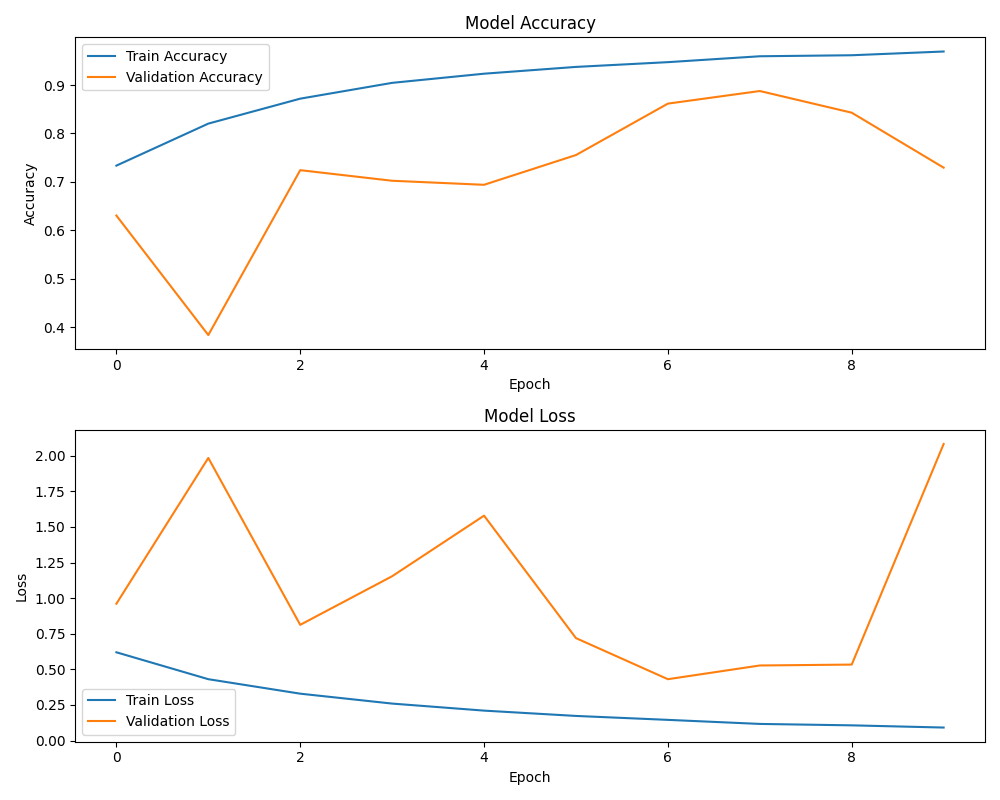
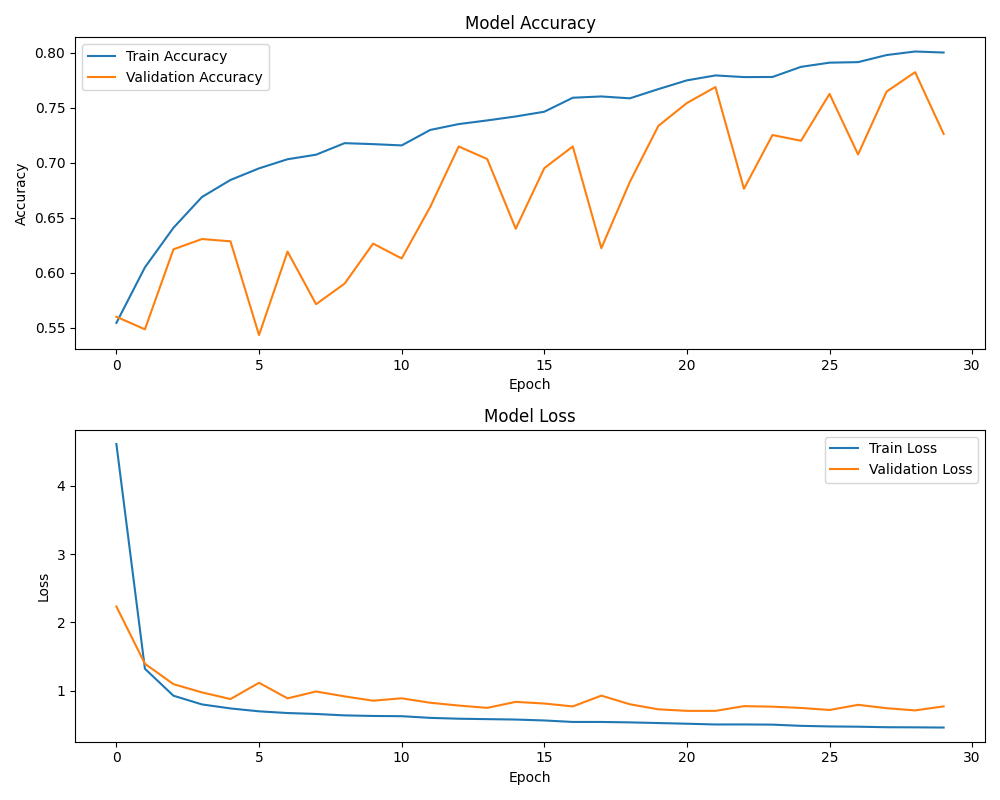
found better initial arch

diff --git a/hw5/train_model.py b/hw5/train_model.py
@@ -51,15 +51,17 @@ print(f"Input shape determined from dataset spec: {input_shape}")
 # Define the model
 _model = models.Sequential([
     layers.Input(shape=input_shape),
-    layers.Conv2D(32, 3, activation='relu'),
-    layers.MaxPooling2D(pool_size=(1,2)),
-    layers.BatchNormalization(),
+    layers.Conv2D(32, 5, activation='relu'),
+    layers.Conv2D(16, 3, activation='relu'),
+    #layers.Conv2D(64, 3, activation='relu'),
+    # layers.MaxPooling2D(pool_size=(1,2)),
+    # layers.BatchNormalization(),
     
-    layers.Conv2D(64, 3, activation='relu'),
-    layers.BatchNormalization(),
+    # layers.Conv2D(64, 3, activation='relu'),
+    # layers.BatchNormalization(),
     
-    layers.Conv2D(32, 3, activation='relu'),
-    layers.BatchNormalization(),
+    # layers.Conv2D(32, 3, activation='relu'),
+    # layers.BatchNormalization(),
 
     # layers.Conv2D(256, 3, activation='relu'),
     # layers.BatchNormalization(),
@@ -78,17 +80,20 @@ model = Classifier(
     metrics = ['accuracy'],
 )
 
-model.model.summary()
+#model.model.summary()
 train_hist = model.fit(
     reset_best_acc = True,
-    save_path = 'training/10d.keras',
+    save_path = 'training/initial_model.keras',
+    stop_patience = 50,
     fit_kwargs = {
         'x': train,
-        'validation_data': val,
-        'epochs': 10,
+        'validation_data': test,
+        'epochs': 30,
         'verbose': 1,
     },
 )
+
+#model.save('training/initial_model.keras')
 
 # plot loss and accuracy curves and save figure as png
 def plot_loss_accuracy(history, save_path):
@@ -115,5 +120,5 @@ def plot_loss_accuracy(history, save_path):
     plt.tight_layout()
     plt.savefig(save_path)
     plt.show()
-#plot_loss_accuracy(train_hist, 'training/loss_accuracy.png')
+plot_loss_accuracy(train_hist, 'training/loss_accuracy.png')
 

diff --git a/hw5/classifier.py b/hw5/classifier.py
@@ -31,10 +31,10 @@ class Classifier:
         if save_path is not None:
             checkpoint_callback = tf_keras.callbacks.ModelCheckpoint(
                 save_path,
-                save_best_only=True,
-                monitor='val_accuracy',
-                mode='max',
-                initial_value_threshold=best_accuracy
+                save_best_only=False,
+                # monitor='val_accuracy',
+                # mode='max',
+                # initial_value_threshold=best_accuracy
             )
         early_stop = tf_keras.callbacks.EarlyStopping(
             monitor='val_accuracy',
@@ -43,7 +43,7 @@ class Classifier:
         )
 
         
-        hist = self.model.fit(**fit_kwargs, callbacks=[checkpoint_callback, early_stop])
+        hist = self.model.fit(**fit_kwargs, callbacks=[early_stop])
         
         best_accuracy_new = max(hist.history['val_accuracy'])
         print(f"Best Validation Accuracy: {best_accuracy_new}")

diff --git a/hw5/eval_model.py b/hw5/eval_model.py
@@ -7,7 +7,7 @@ from classifier import Classifier
 import numpy as np # Import numpy
 import json
 
-model_name = 'best_mini'
+model_name = 'initial_model'
 
 batch_size = 32
 AUTOTUNE = tf.data.AUTOTUNE
@@ -28,7 +28,7 @@ num_classes = len(label_list)
 
 train, val, test, loaded_spec_info = load_datasets(processed_dataset_path, batch_size)
 
-model = tf_keras.models.load_model('training/best_model.keras')
+model = tf_keras.models.load_model(f'training/{model_name}.keras')
 
 # Compile with only accuracy, as other metrics cause shape issues here
 model.compile(
